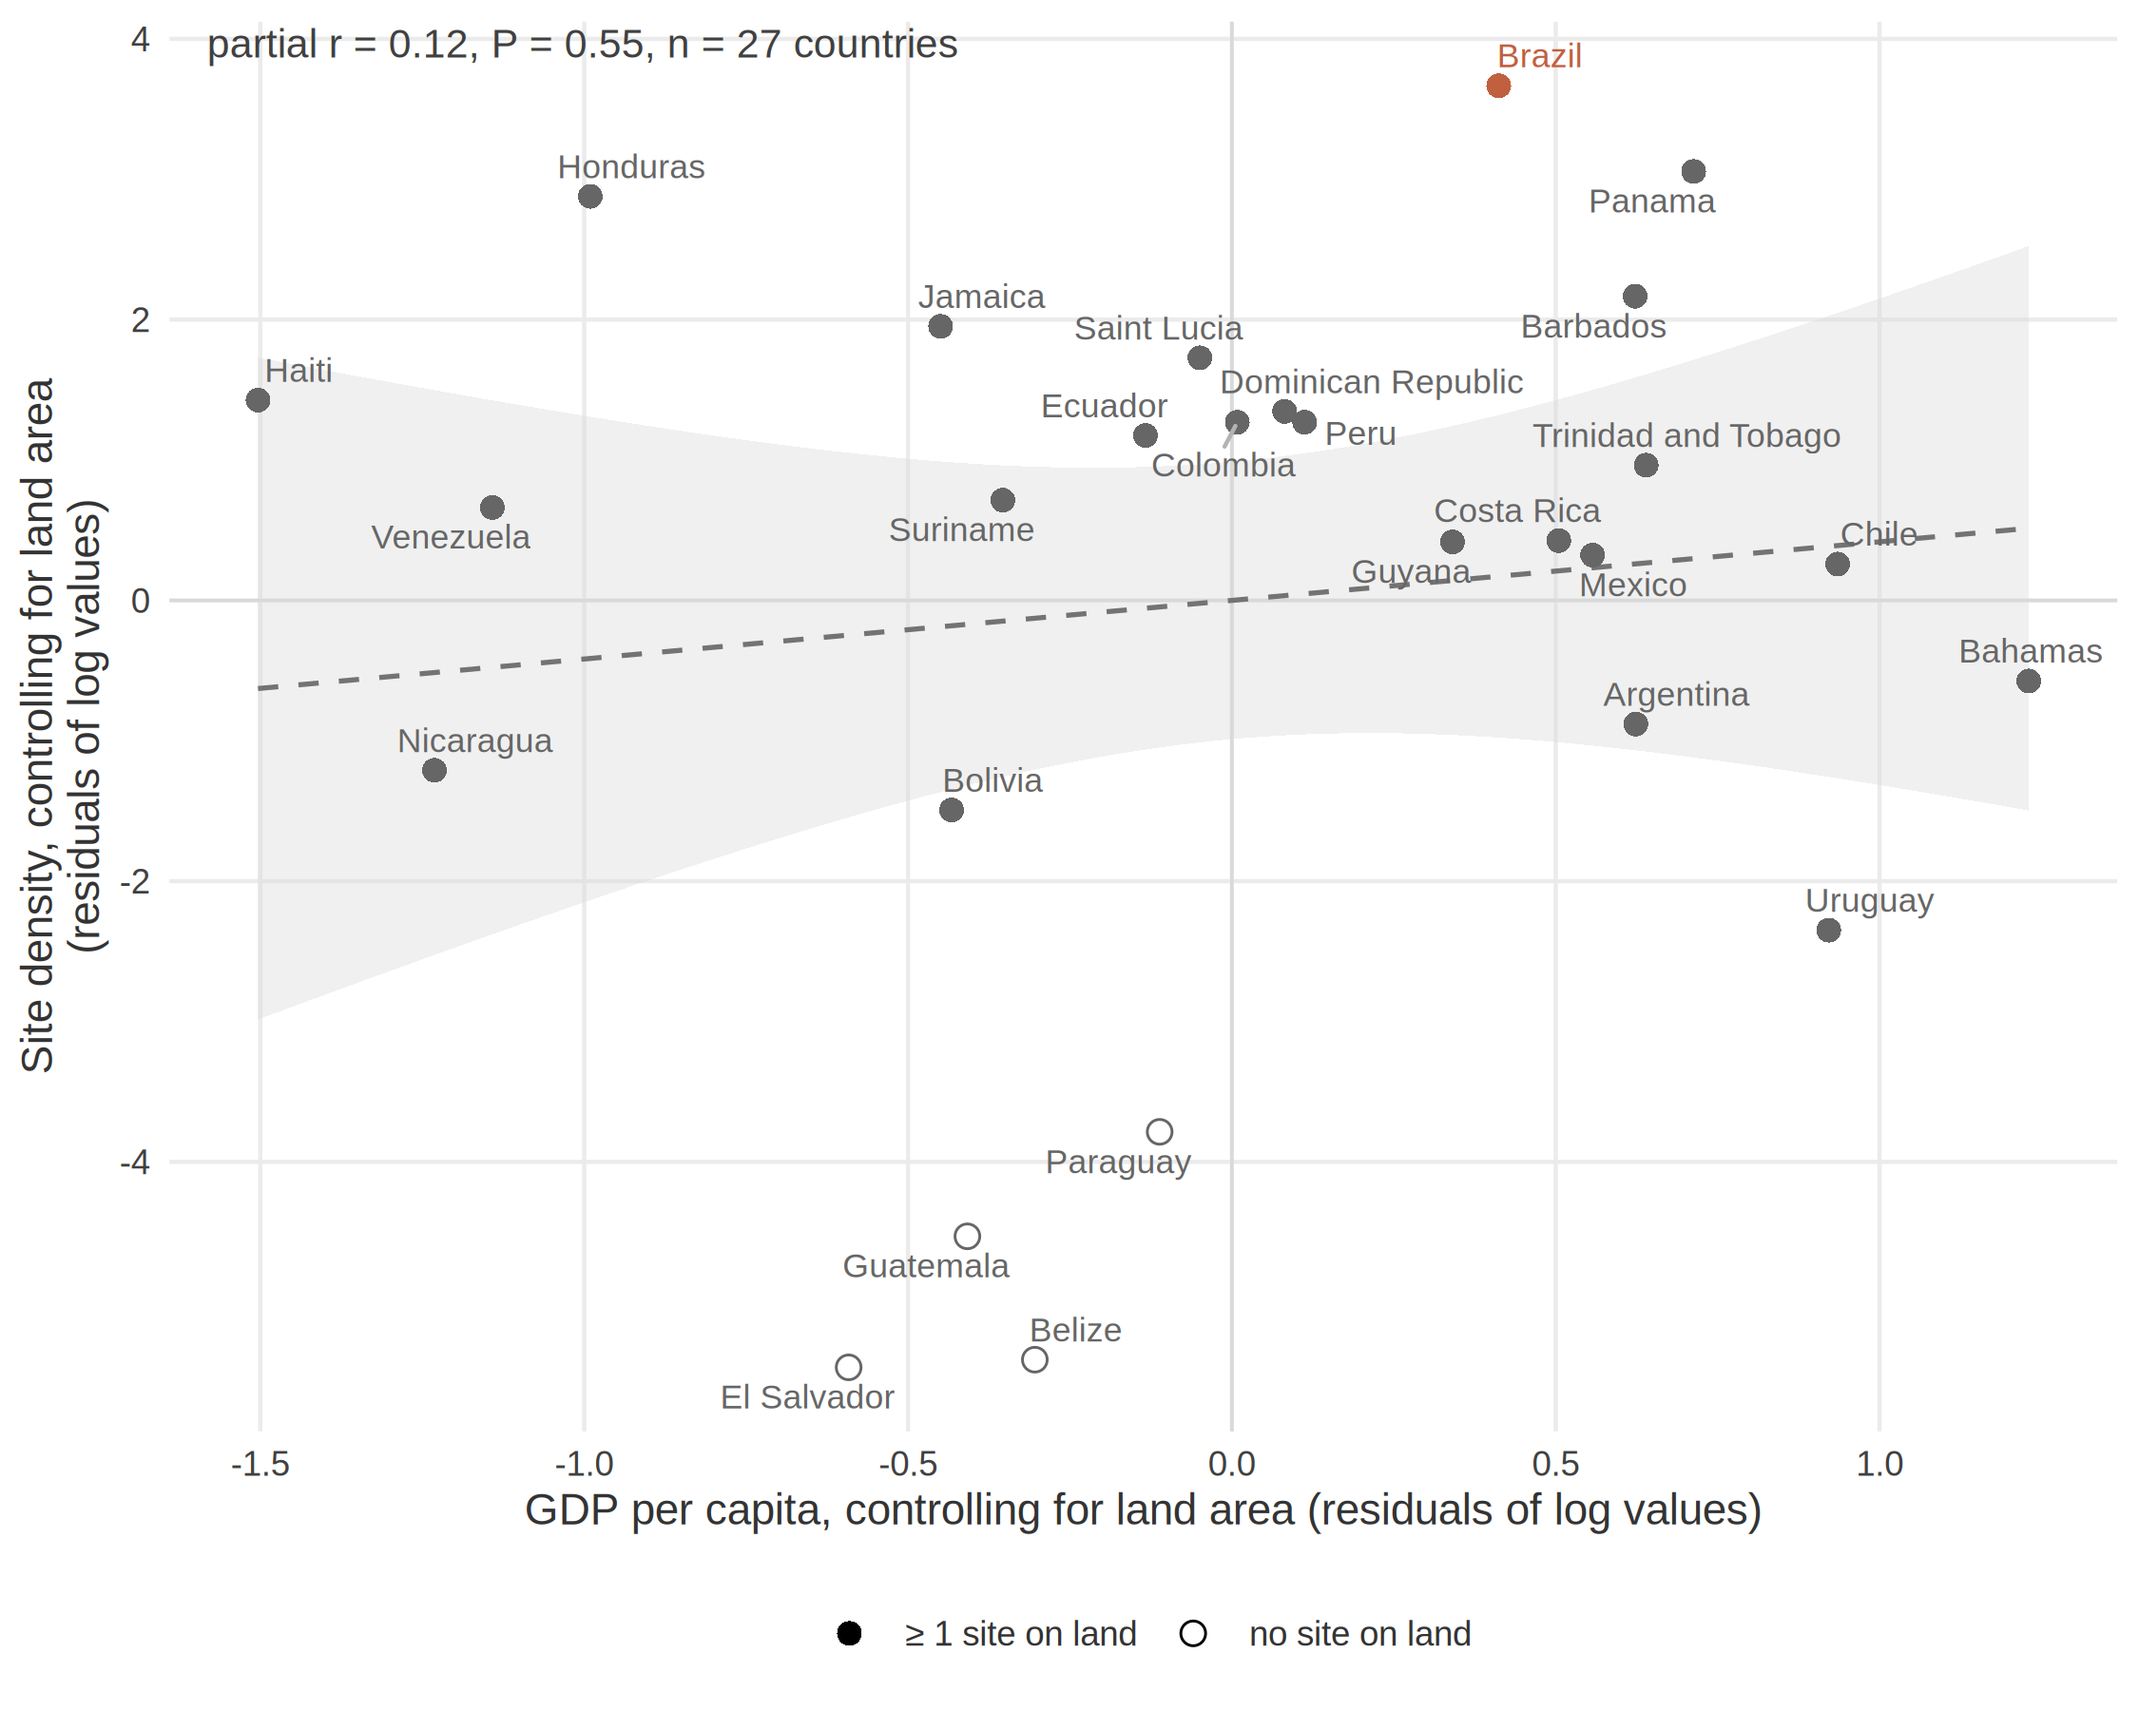
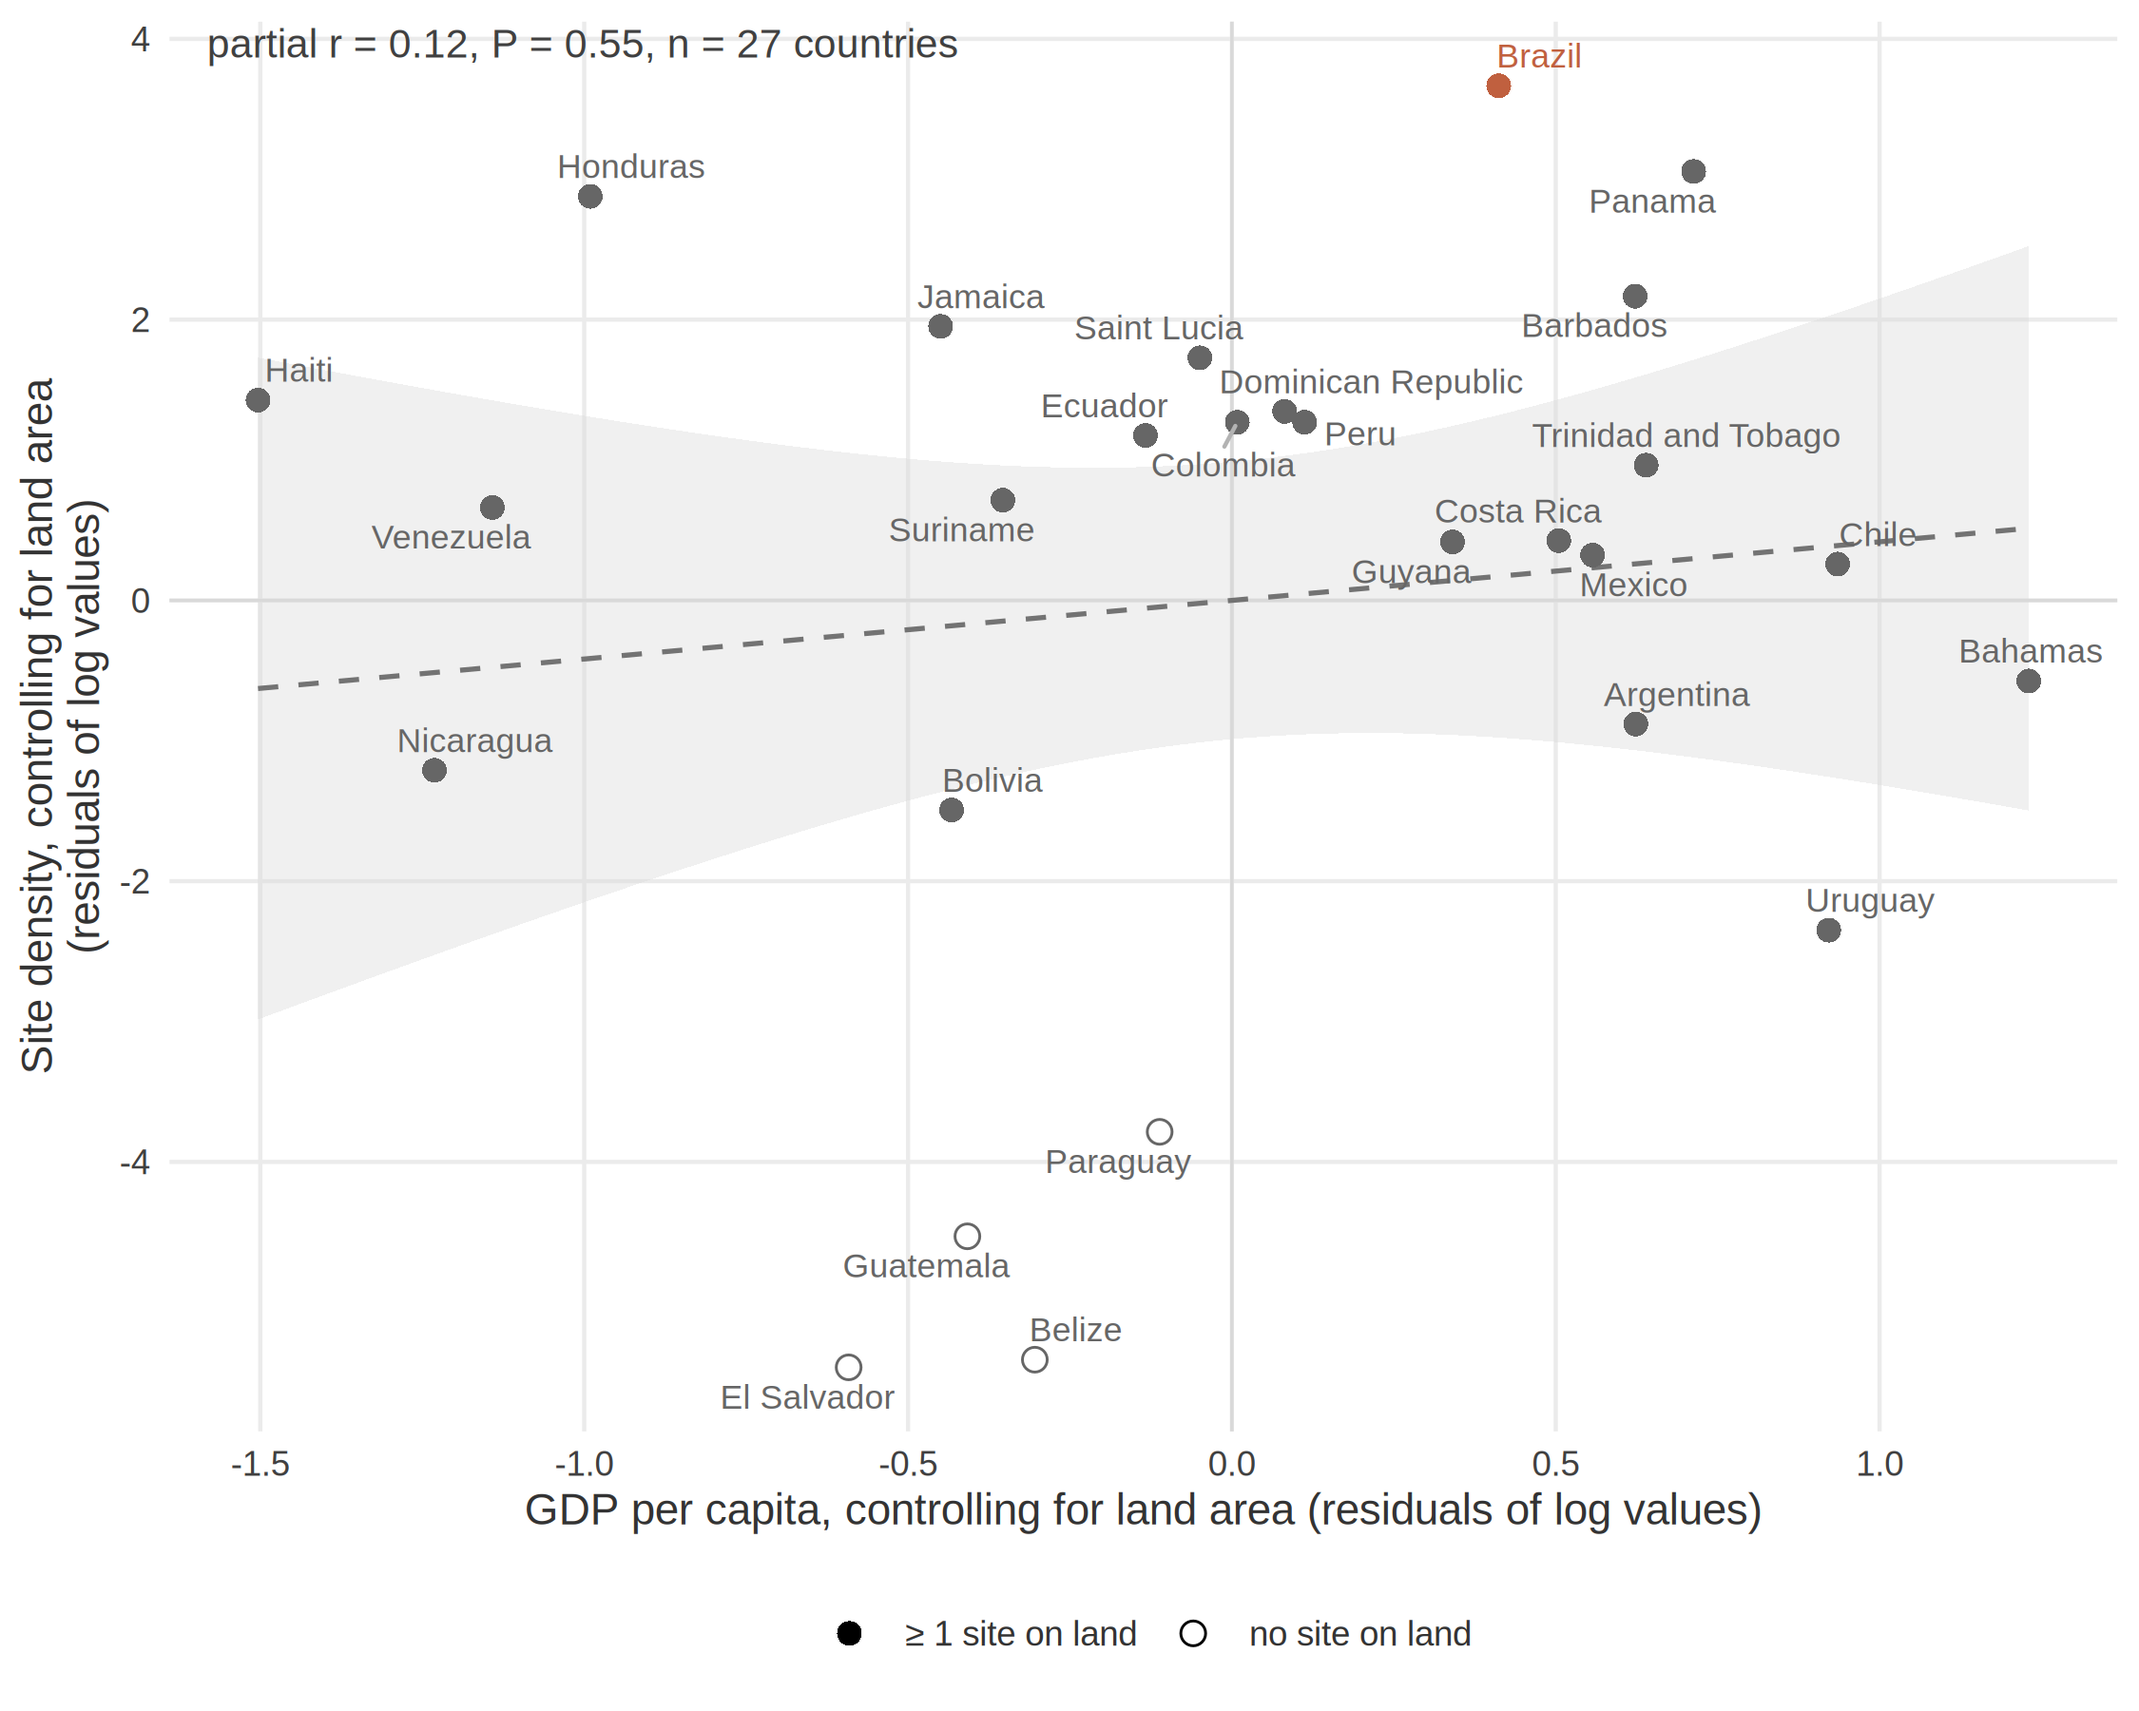
Code comments updated to the final figure numbering (no personal names); Fig. S1 label layout made deterministic

diff --git a/README.md b/README.md
@@ -28,7 +28,7 @@ R packages: dplyr, ggplot2, patchwork, sf, rnaturalearth (+ rnaturalearthdata, r
 |---|---|---|
 | `01_fix_site_coordinates.R` | Corrects site coordinates (see below) | `data/intermediate/`, `logs/LOG_coordinates_site_data.csv` |
 | `02_clean_spreadsheets.R` | Harmonizes project IDs across tables, fixes shifted cells, removes duplicated rows, fills missing taxonomy | `data/*.csv`, `logs/LOG_cleaning_spreadsheets.csv` |
-| `03_ecoregions.R` | Assigns each site to a terrestrial and a marine ecoregion; taxonomic composition per ecoregion | `data/site_ecoregions.csv`, `results/*_ecoregions_composition.csv` |
+| `03_ecoregions.R` | Assigns each site to a terrestrial and a marine ecoregion; taxonomic composition per ecoregion (each site counted only in ecoregions of its own realm) | `data/site_ecoregions.csv`, `results/*_ecoregions_composition.csv` |
 | `04_density_figure1.R` | Land-based site density per country; partial correlation with GDP per capita (and total GDP); Figure 1 (A: site density in 1° hexagons, land and marine sites in separate colour scales; B: density per country) | `results/land_site_density_by_country.csv`, `figures/Figure1` |
 | `05_sampbias/` | Spatial sampling-bias models (sampbias), land and sea, 4 chains × 10⁶ iterations, with and without one record per project per cell | `results/sampbias_results.csv` |
 | `06_figure2_sampbias.R` | Figure 2 | `figures/Figure2` |
